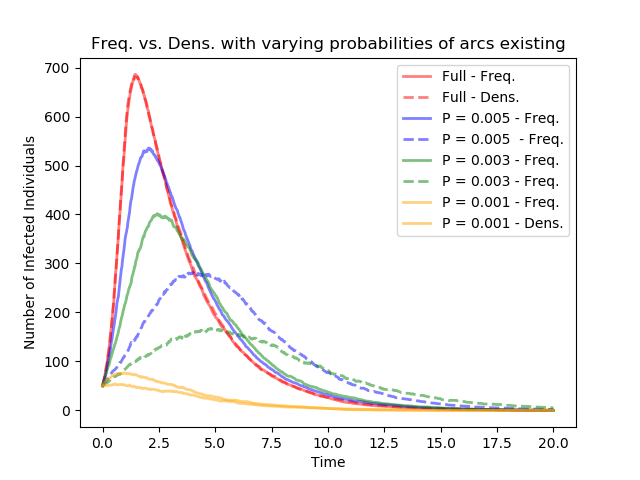
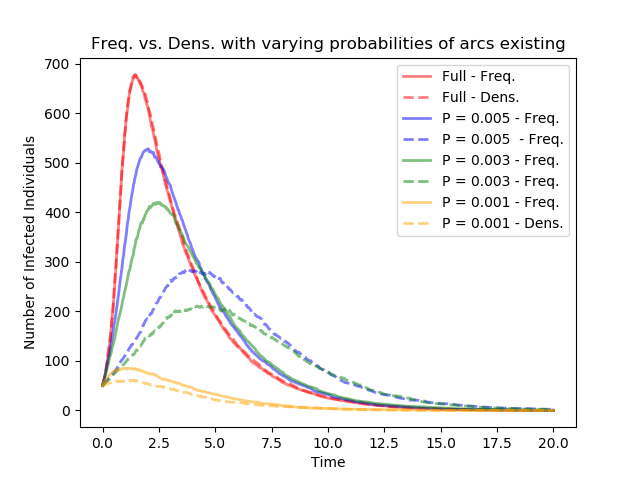
fd finalised

diff --git a/Density_Frequency_Experimentation.py b/Density_Frequency_Experimentation.py
@@ -308,7 +308,7 @@ def main(er_small_test=True, household_test=True, random_test=True, random_sd_te
         plt.plot(t, I8freq, color="green",label="8 - Freq.",lw = 2, alpha=0.5,figure=fig)
         plt.plot(t, I8dens, color="green",linestyle="dashed",label="8 - Dens.",lw = 2, alpha=0.5,figure=fig)
         plt.plot(t, I10freq, color="orange",label="10 - Freq.",lw = 2, alpha=0.5,figure=fig)
-        plt.plot(t, I10dens, color="orange",label="10 - Dens.",lw = 2, alpha=0.5,figure=fig)
+        plt.plot(t, I10dens, color="orange",linestyle="dashed",label="10 - Dens.",lw = 2, alpha=0.5,figure=fig)
         plt.legend()
         plt.xlabel("Time")
         plt.ylabel("Number of Infected Individuals")
@@ -503,4 +503,4 @@ def main(er_small_test=True, household_test=True, random_test=True, random_sd_te
         plt.savefig(f"PythonPlotting/Comparisons/FD_nBinom_Household_Comp")
 
 if __name__=="__main__":
-    main(False, False, False, True)
+    main(False, True, False, False)
